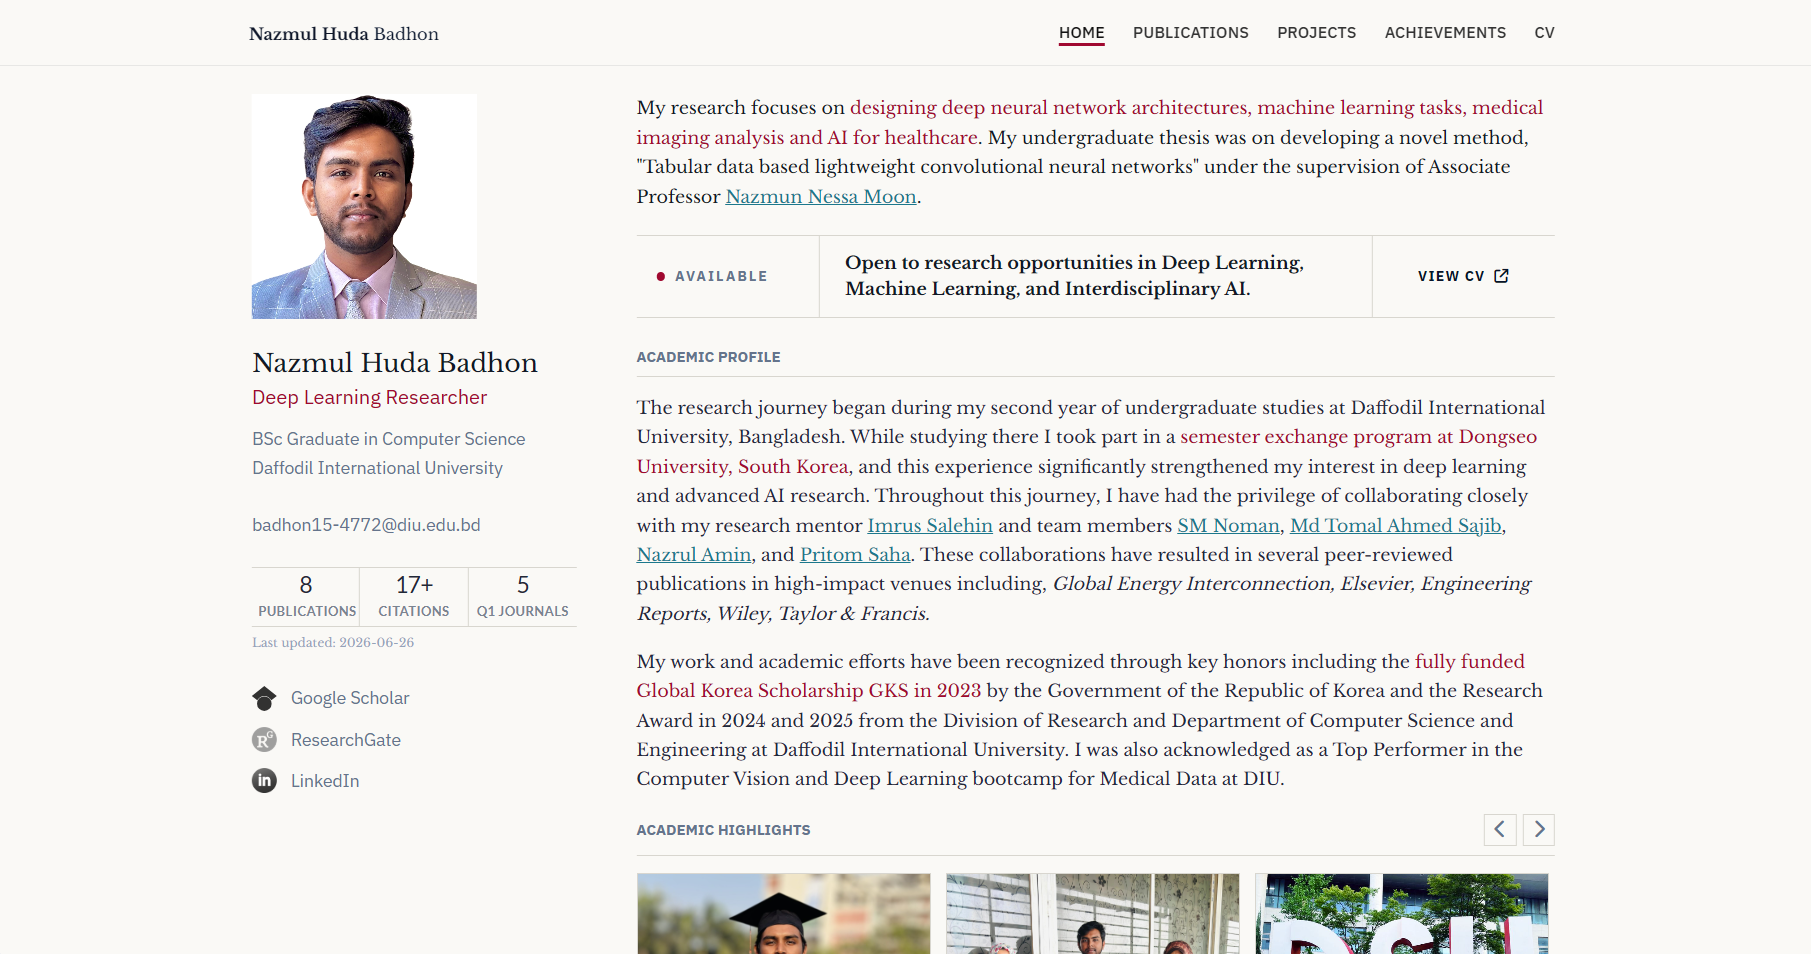
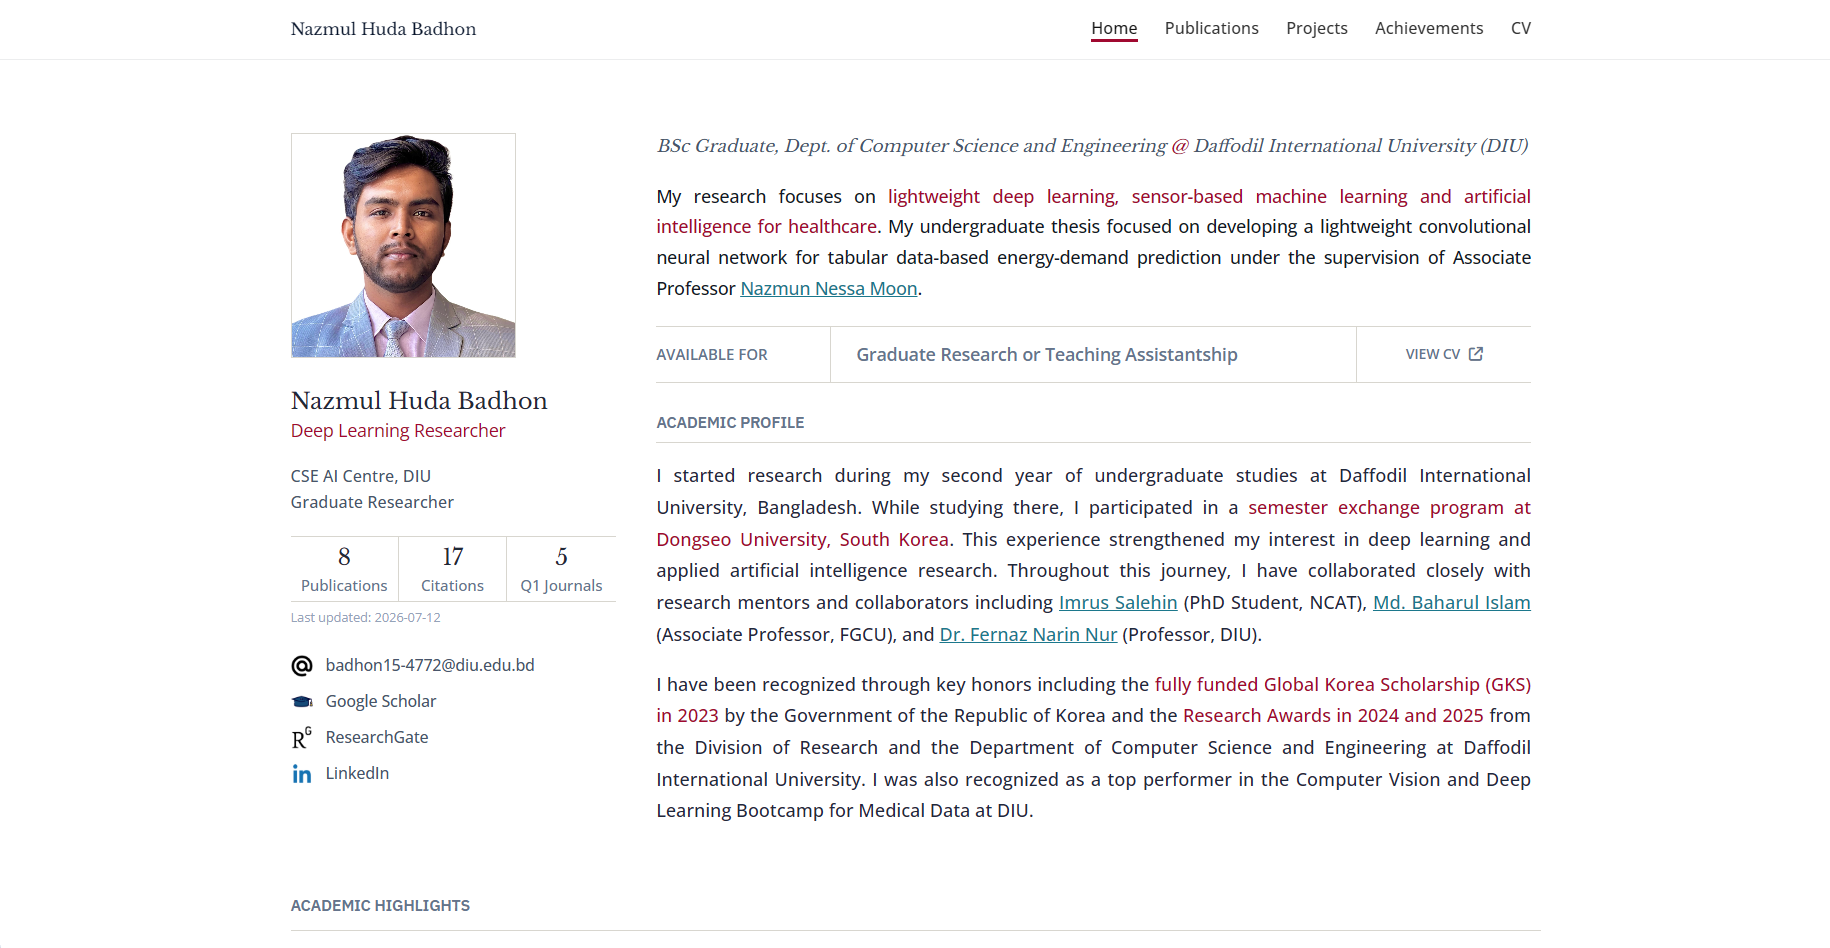
New Version of Academic Portfolio

diff --git a/index.html b/index.html
@@ -34,7 +34,7 @@
   <meta property="og:type" content="website">
   <meta property="og:url" content="https://nazmulhudabadhon.github.io/">
   <meta property="og:title" content="Nazmul Huda Badhon | Portfolio">
-  <meta property="og:description" content="B.Sc. Graduate | Deep Learning Research | Computer Vision">
+  <meta property="og:description" content="BSc Graduate in CSE | Deep Learning Researcher">
   <meta property="og:image" content="https://nazmulhudabadhon.github.io/Image/link-preview.png">
   <meta property="og:image:width" content="1200">
   <meta property="og:image:height" content="630">
